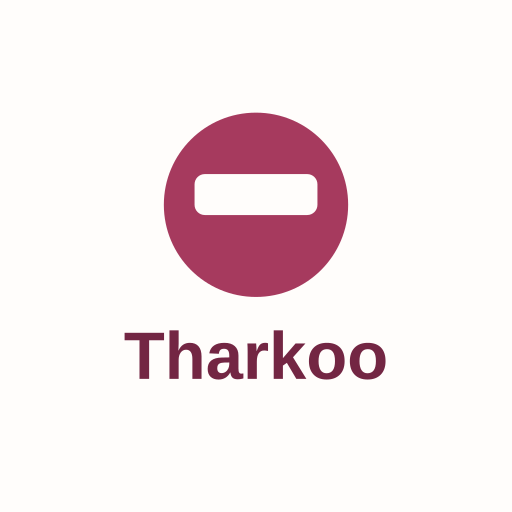
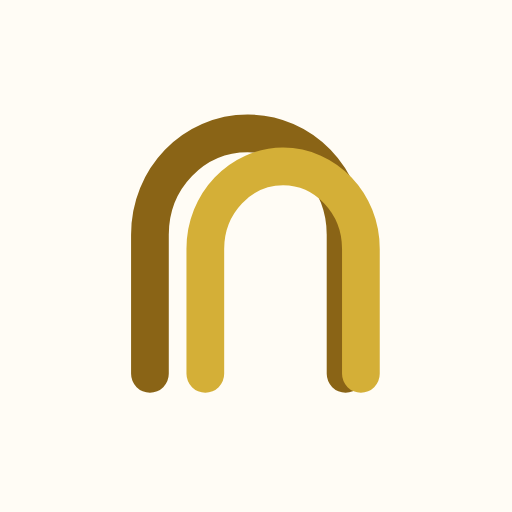
H1.7a: approved follow-ups - ui-smoke, four files, gold brand assets, Browse by city
- scripts/ui-smoke.mjs: 5 old-home assertions updated; Latest ads stays removed
- error, global-error, styleguide, submit-report: gold colours and class names; alias selectors removed
- logo, favicon (ico + svg), app icons, apple touch icon and share image redrawn in gold
- home: one "Browse by city" card and one "More categories" card replace the per-category city boxes
- ownership globs for H1.7a-d extended

Changed region(s): [[0.25, 0.2188, 0.75, 0.7812]]

diff --git a/src/components/HomeBlocks.tsx b/src/components/HomeBlocks.tsx
@@ -6,7 +6,7 @@ import { JsonLd } from "@/lib/jsonld";
 import { safeHtml } from "@/lib/sanitize";
 import { canonical } from "@/lib/seo";
 import { organizationNode, websiteNode } from "@/lib/seo/schema";
-import { categoryPath, placePath, searchPath } from "@/lib/urls";
+import { categoryPath, citiesPath, placePath, searchPath } from "@/lib/urls";
 import { getCategories, getCities, getHomepageContent, getSeo, getSite, listingCountsByCategoryCity } from "@/lib/queries";
 import { getPaths } from "@/server/urls/service";
 import { cardFallback, type HomeCard } from "@/lib/ui/site-content";
@@ -58,6 +58,13 @@ export async function HomeBlocks() {
   const cards = content.cards.filter((card) => card.visible && bySlug.has(card.slug));
   const configured = new Set(content.cards.map((card) => card.slug));
   const rest = categories.filter((cat) => !configured.has(cat.slug || "")).slice(0, 8);
+  const firstCategory = categories[0]?.slug || "dating";
+  const topCities = cities.filter((city) => city.isTop);
+  const browseCities = topCities.length ? topCities : cities.slice(0, 12);
+  const moreGroup = content.groups.find((group) => group.visible && group.kind === "categories");
+  const moreCategories = moreGroup?.cities.length
+    ? moreGroup.cities.map((slug) => bySlug.get(slug)).filter((cat): cat is Cat => Boolean(cat?.slug))
+    : rest;
 
   function picksFor(card: HomeCard, cat: Cat) {
     const chosen = card.cities.map((slug) => cityBySlug.get(slug)).filter(Boolean);
@@ -125,52 +132,31 @@ export async function HomeBlocks() {
         <div className="tk-seo" dangerouslySetInnerHTML={{ __html: safeHtml(content.seoIntro || seo?.intro || "") }} />
       ) : null}
       <div className="tk-container tk-groups">
-        {content.groups.filter((group) => group.visible).map((group) => {
-          if (group.kind === "categories") {
-            const extra = group.cities.length
-              ? group.cities.map((slug) => bySlug.get(slug)).filter((cat): cat is Cat => Boolean(cat?.slug))
-              : rest;
-            return (
-              <section key={group.id} className="tk-group" data-tk="city-group">
-                <h3>{group.title || "More categories"}</h3>
-                <div className="tk-pills">
-                  {extra.map((cat) => (
-                    <Link key={cat.slug} href={categoryPath(cat.slug || "")} className="tk-pill" prefetch={false}>
-                      {cat.name}
-                    </Link>
-                  ))}
-                </div>
-              </section>
-            );
-          }
-          const cat = bySlug.get(group.slug);
-          if (!cat?.slug) return null;
-          const Icon = iconFor(group.slug);
-          const title = group.title || cat.name;
-          const chosen = group.cities.map((slug) => cityBySlug.get(slug)).filter(Boolean);
-          const pills = chosen.length ? chosen : top.slice(0, 5);
-          return (
-            <section key={group.id} className="tk-group" data-tk="city-group">
-              <h3>
-                <Link href={categoryPath(cat.slug || "")} prefetch={false}>
-                  <Icon size={16} /> {title}
+        <section className="tk-group" data-tk="city-group">
+          <h3>Browse by city</h3>
+          <div className="tk-pills">
+            {browseCities.map((city) => (
+              <Link key={city.slug} href={placePath(firstCategory, city.slug || "")} className="tk-pill" prefetch={false}>
+                {city.name}
+              </Link>
+            ))}
+            <Link href={citiesPath(paths)} className="tk-pill" prefetch={false}>
+              All cities
+            </Link>
+          </div>
+        </section>
+        {moreCategories.length ? (
+          <section className="tk-group" data-tk="city-group">
+            <h3>{moreGroup?.title || "More categories"}</h3>
+            <div className="tk-pills">
+              {moreCategories.map((cat) => (
+                <Link key={cat.slug} href={categoryPath(cat.slug || "")} className="tk-pill" prefetch={false}>
+                  {cat.name}
                 </Link>
-              </h3>
-              <div className="tk-pills">
-                {pills.map((city) => (
-                  <Link key={city!.slug} href={placePath(cat.slug || "", city!.slug || "")} className="tk-pill" prefetch={false}>
-                    {city!.name}
-                  </Link>
-                ))}
-                {group.showAll ? (
-                  <Link href="/cities/" className="tk-pill" prefetch={false}>
-                    All cities
-                  </Link>
-                ) : null}
-              </div>
-            </section>
-          );
-        })}
+              ))}
+            </div>
+          </section>
+        ) : null}
       </div>
     </>
   );

diff --git a/src/app/globals.css b/src/app/globals.css
@@ -126,8 +126,7 @@ input, select, textarea { font-size: 16px; }
 }
 .tk-btn-primary:hover { background: var(--gold-light); }
 .tk-btn-primary.tk-btn-lg { height: 52px; border-radius: var(--r-btn); }
-.tk-btn-gold,
-.tk-btn-rose {
+.tk-btn-gold {
   background: var(--gold);
   color: var(--ink);
   border-radius: var(--r-btn);
@@ -137,12 +136,9 @@ input, select, textarea { font-size: 16px; }
   font-size: 14px;
   font-weight: 700;
 }
-.tk-btn-gold:hover,
-.tk-btn-rose:hover { background: var(--gold-light); }
-.tk-btn-gold.tk-btn-sm,
-.tk-btn-rose.tk-btn-sm { height: 40px; border-radius: var(--r-btn); font-size: 12px; }
+.tk-btn-gold:hover { background: var(--gold-light); }
+.tk-btn-gold.tk-btn-sm { height: 40px; border-radius: var(--r-btn); font-size: 12px; }
 .tk-btn-outline-gold,
-.tk-btn-outline-rose,
 .tk-btn-outline-primary {
   background: #fff;
   color: var(--primary);
@@ -154,7 +150,6 @@ input, select, textarea { font-size: 16px; }
   font-weight: 700;
 }
 .tk-btn-outline-gold:hover,
-.tk-btn-outline-rose:hover,
 .tk-btn-outline-primary:hover { background: var(--tint); }
 .tk-btn-whatsapp {
   background: var(--wa);

diff --git a/src/app/styleguide/page.tsx b/src/app/styleguide/page.tsx
@@ -14,7 +14,7 @@ import { StyleDialog } from "@/components/ui/StyleDialog";
 
 export const metadata = pageMetadata({
   title: "Design system | Tharkoo",
-  description: "Plum and rose on ivory tokens and components.",
+  description: "Ivory and gold tokens and components.",
   path: "/styleguide/",
   index: false,
 });
@@ -22,8 +22,8 @@ export const metadata = pageMetadata({
 const swatches = [
   ["bg", "#FFFDFB"],
   ["card", "#FFFFFF"],
-  ["primary", "#6A2150"],
-  ["accent", "#A63A5E"],
+  ["primary", "#8A6416"],
+  ["gold", "#D4AF37"],
   ["text", "#1F2433"],
   ["muted", "#6E7180"],
 ];
@@ -49,7 +49,7 @@ export default function StyleGuide() {
   return (
     <Container className="py-10">
       <h1 className="t-h1">Design system</h1>
-      <p className="t-lead mt-3 max-w-[68ch] text-muted">Plum and rose on ivory. Light surfaces, rose for action.</p>
+      <p className="t-lead mt-3 max-w-[68ch] text-muted">Ivory and gold. Light surfaces, gold for action.</p>
       <h2 className="t-h2 mt-10">Colour</h2>
       <div className="mt-4 grid grid-cols-2 gap-3 sm:grid-cols-3">
         {swatches.map(([name, hex]) => (

diff --git a/src/app/error.tsx b/src/app/error.tsx
@@ -6,7 +6,7 @@ export default function ErrorView({ reset }: { error: Error; reset: () => void }
   return (
     <div className="py-10 text-center">
       <EmptyState heading="h1" title="Something went wrong" body="Tharkoo could not load this page. Try again in a moment." action={{ href: "/", label: "Back to home" }} />
-      <button type="button" className="tk-btn tk-btn-outline-rose" onClick={reset}>
+      <button type="button" className="tk-btn tk-btn-outline-gold" onClick={reset}>
         Retry
       </button>
     </div>

diff --git a/src/app/global-error.tsx b/src/app/global-error.tsx
@@ -9,7 +9,7 @@ export default function GlobalError({ reset }: { error: Error; reset: () => void
           <p>Tharkoo could not load. Try again, or go back home.</p>
           <p>
             <form action="/" method="get">
-              <button type="submit" style={{ color: "#A63A5E", background: "none", border: 0, font: "inherit" }}>
+              <button type="submit" style={{ color: "#8A6416", background: "none", border: 0, font: "inherit" }}>
                 Back to home
               </button>
             </form>

diff --git a/src/app/submit-report/page.tsx b/src/app/submit-report/page.tsx
@@ -18,7 +18,7 @@ export default async function ReportPage({ searchParams }: { searchParams: Promi
         A public report form is coming soon. Until then, use the grievance page and include the ad link.
       </p>
       <p className="mt-4">
-        <Link href="/cms/grievance/" className="tk-btn tk-btn-rose">Open grievance</Link>
+        <Link href="/cms/grievance/" className="tk-btn tk-btn-gold">Open grievance</Link>
       </p>
     </Container>
   );

diff --git a/progress/H1.7a.md b/progress/H1.7a.md
@@ -1,6 +1,6 @@
 # H1.7a — Gold theme + home, header, footer
 
-**Result:** DONE for the card, with NEED items for Opus (below). PR open (branch `haiku/h1.7a-gold-home`). Waiting for `MERGE: allowed`.
+**Result:** DONE, including Opus's answers to the NEED items (message #12). PR open (branch `haiku/h1.7a-gold-home`).
 
 ## Done
 **Theme "Ivory & Gold"** (`src/styles/tokens.css`, token names kept, values per the card)
@@ -31,9 +31,16 @@
 
 ## Checks
 - `npm run lint`: 0 errors, 155 warnings (as before). `npm run typecheck`: pass. `npm test`: **186 / 186 pass**. `npm run build` with `MONGODB_URI` unset: pass. `forbidden-terms`: 0 hits, 317 files.
-- `node scripts/ui-smoke.mjs` against a staging-style local build (`SITE_NOINDEX=true`, `STAGING_AUTO_VERIFY_EMAIL=true`): **153 pass, 5 fail**. All five are old-design assertions that this card changes on purpose (NEED 1). Everything else passes, including the admin flows, theme checks and all other pages.
+- `node scripts/ui-smoke.mjs` against a staging-style local build (`SITE_NOINDEX=true`, `STAGING_AUTO_VERIFY_EMAIL=true`): **156 pass, 0 fail** (after the follow-up below). Before it, 5 old-design assertions failed on purpose.
 
-## NEED / questions for Opus
+## Follow-up after Opus message #12 (same PR)
+1. **`scripts/ui-smoke.mjs`** (now in the H1.7a–d globs): the 5 old assertions are updated: hero height rule is `clamp(420, 56vh, 560)`, search bar 40 px above the banner bottom, H1 16 px above the search bar, container 1200, no "Countries" in the footer, phone hero text sits below the photo, and the Latest ads check became "Latest ads stays removed".
+2. **Four files recoloured** (now in the globs): `src/app/error.tsx`, `src/app/submit-report/page.tsx` (gold class names), `src/app/global-error.tsx` (hex), `src/app/styleguide/page.tsx` (words and swatches). The two alias selectors in `globals.css` are removed. `rg -i "#6A2150|#A63A5E|#5A2158|\bplum\b|--rose|rose-" src` returns nothing.
+3. **Brand assets recoloured to gold** (two-arch mark: outer deep gold `#8A6416`, inner gold `#D4AF37`, on ivory `#FFFCF5`): `public/brand/logo-mark.svg`, `public/logo.svg`, `public/favicon.svg`, `src/app/favicon.ico` (16/32/48 px, RGBA), `public/brand/icon-192.png`, `icon-512.png`, `public/apple-touch-icon.png`, and the share image `public/brand/og-default.png` (1200 × 630, ivory with the mark, "tharkoo" and the tagline). The old app icon was a plain circle with a minus sign; it is now the real mark. The three files outside `public/brand/**` (`public/logo.svg`, `public/favicon.svg`, `public/apple-touch-icon.png`) were added to the H1.7a globs because they are where those files live.
+4. **Home page below the category cards:** the stack of per-category boxes is replaced by ONE "Browse by city" card (all top cities as centred wrapping pills, plus "All cities") and the existing "More categories" row as a second short card. Section spacing is 48 px on desktop and 32 px on phone. City pills link through the first category, the same way the Cities page does. The per-category city groups from the homepage editor are no longer shown.
+5. Ownership entries H1.7a–d now include `scripts/ui-smoke.mjs` and the four files; H1.7a also has the brand globs.
+
+## Original NEED items (all answered YES by Opus, see above)
 1. **`scripts/ui-smoke.mjs` is outside this card's files** and now fails 5 checks that assert the OLD home page:
    - `/ home-structure` (1440): expects hero height `min(880, max(425, 0.7·height))`, container 960 px, and "Countries" in the footer.
    - `/ home-mobile` (390): expects hero height 290 px.
